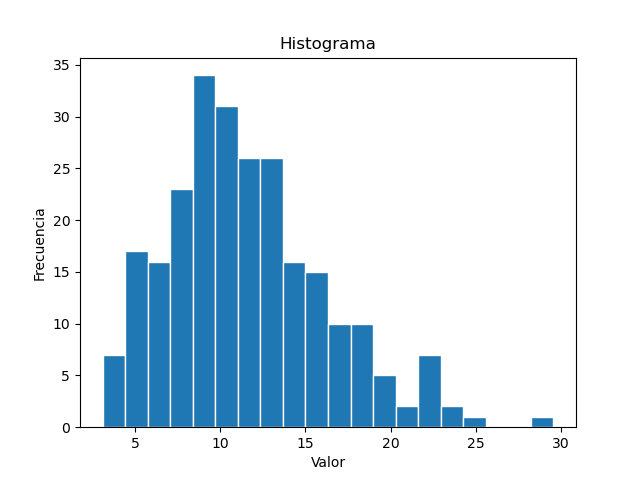
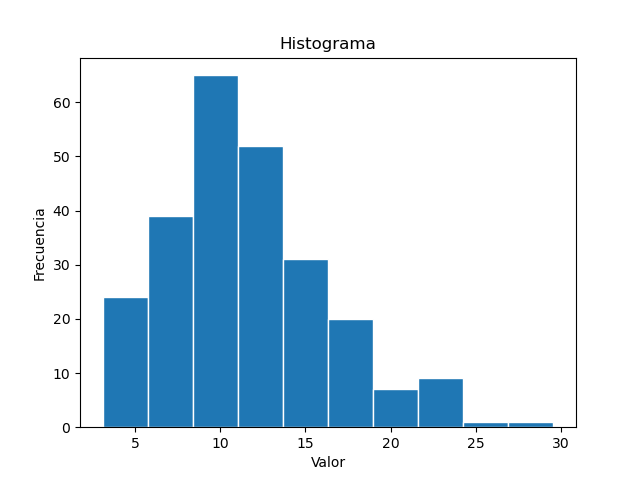
More correct histogram and useless function deleted

diff --git a/src/histogram.py b/src/histogram.py
@@ -3,57 +3,9 @@ from scipy.stats import gamma, lognorm, weibull_min, chi
 import numpy as np
 from parse_sample import parse_sample
 
-def plot_histogram_with_distr(values):
-    # Create the histogram
-    n, bins, patches = plt.hist(values, bins=20, edgecolor='white')
-
-    # Calculate the bin widths
-    bin_widths = bins[1:] - bins[:-1]
-
-    # Calculate the area under the histogram bars
-    histogram_area = np.sum(n * bin_widths)
-
-    # Overlay gamma distribution
-    shape, loc, scale = gamma.fit(values, floc=0)
-    x = np.linspace(0, max(values), 100)
-    pdf = gamma.pdf(x, shape, loc=loc, scale=scale)
-    pdf_scaled = pdf * histogram_area  # Scale the PDF to match histogram frequency
-    plt.plot(x, pdf_scaled, lw=2, label='Gamma')
-
-
-    # Overlay log-normal distribution
-    shape, loc, scale = lognorm.fit(values)
-    x = np.linspace(min(values), max(values), 100)
-    pdf = lognorm.pdf(x, shape, loc=loc, scale=scale) * histogram_area
-    plt.plot(x, pdf, lw=2, label='Log-Normal', color='pink')
-
-    # Overlay weibull distribution
-    shape, loc, scale = weibull_min.fit(values, floc=0)
-    x = np.linspace(min(values), max(values), 100)
-    pdf = weibull_min.pdf(x, shape, loc=loc, scale=scale) * histogram_area
-    plt.plot(x, pdf, lw=2, label='Weibull', color='yellow')
-
-    # Overlay chi distribution
-    df, loc, scale = chi.fit(values)
-    x = np.linspace(min(values), max(values), 100)
-    pdf = chi.pdf(x, df, loc=loc, scale=scale) * histogram_area
-    plt.plot(x, pdf, lw=2, label='Chi', color='lightgreen')
-
-    # Set plot properties
-    plt.xlabel('Valor')
-    plt.ylabel('Frecuencia')
-    plt.title('Histograma y distribuciones Gamma y Log Normal')
-    plt.legend()
-
-
-
-    # Show the plot
-    plt.savefig("../plots/histogram_with_distributions")
-    plt.clf()
-
 def plot_histogram(values):
     # Create the histogram
-    plt.hist(values, bins=20, edgecolor='white')
+    plt.hist(values, edgecolor='white')
 
     # Set plot properties
     plt.xlabel('Valor')
@@ -66,5 +18,4 @@ def plot_histogram(values):
 
 # Usage example
 values = parse_sample('../sample23.dat')
-plot_histogram_with_distr(values)
 plot_histogram(values)
